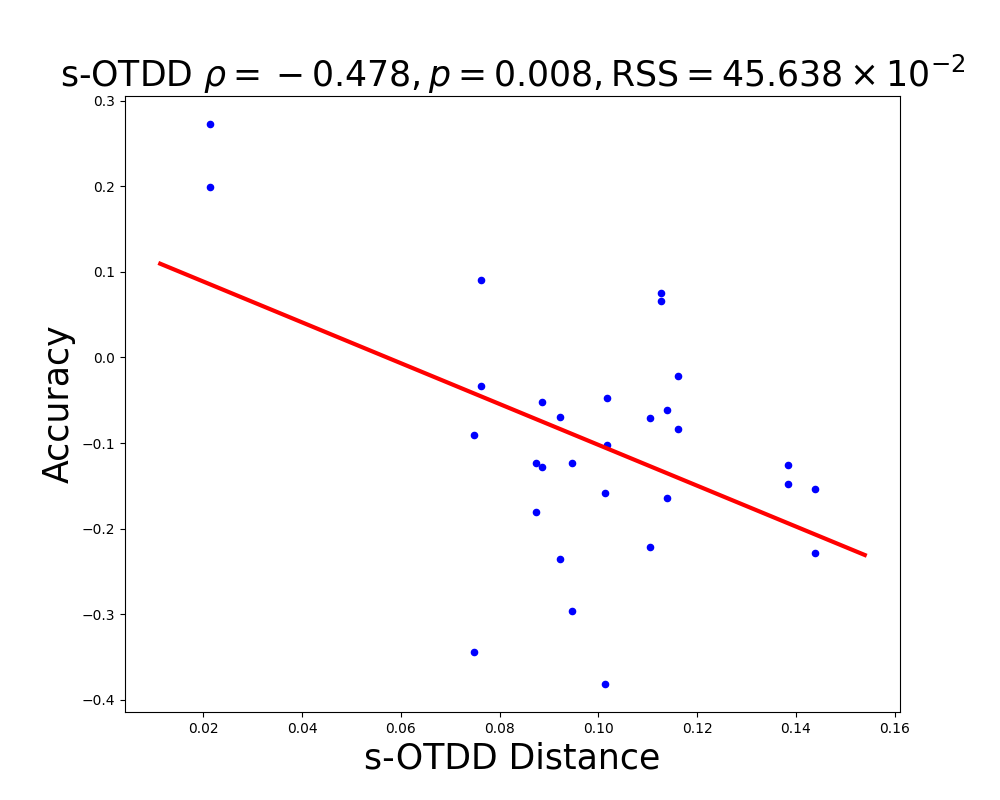
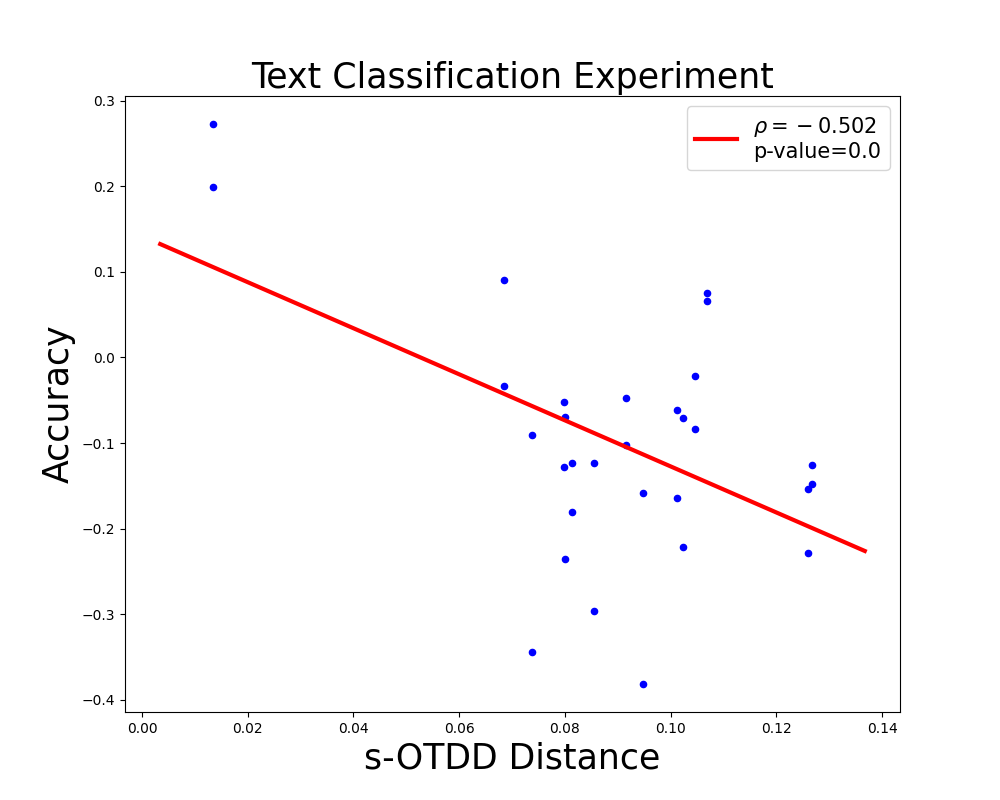
h

diff --git a/text_eval.py b/text_eval.py
@@ -9,7 +9,7 @@ from sklearn.linear_model import LinearRegression
 from scipy import stats
 
 
-method = "OTDD"
+method = "sOTDD"
 if method == "sOTDD":
     display_method = "s-OTDD"
 else:
@@ -20,7 +20,8 @@ parent_dir = "saved/text_cls_new"
 baseline_result_path = f"{parent_dir}/baseline_new/accuracy.txt"
 adapt_result_path = f"{parent_dir}/adapt_weights/adapt_result.txt"
 # text_dist_path = f"{parent_dir}/dist/{method}_text_dist.json"
-text_dist_path = "saved_text_dist/text_cls/dist/OTDD_20_text_dist.json"
+# text_dist_path = "saved_text_dist/text_cls/dist/OTDD_20_text_dist.json"
+text_dist_path = "saved_text_dist/text_cls/dist/sOTDD_text_dist.json"
 
 # read text distance
 with open(text_dist_path, "r") as file:
@@ -93,26 +94,30 @@ x_extended = np.linspace(x_min, x_max, 100).reshape(-1, 1)
 # Predict y values for the extended range
 y_extended_pred = model.predict(x_extended)
 
-plt.figure(figsize=(10, 8))
-
-plt.scatter(dist_list, perf_list, s=20, color='blue')
-plt.plot(x_extended, y_extended_pred, color='red', linewidth=3)
-
 def compute_rss(observed, predicted):
     if len(observed) != len(predicted):
         raise ValueError("Both lists must have the same length.")
     rss = sum((obs - pred) ** 2 for obs, pred in zip(observed, predicted))
     return rss
-
 rss = compute_rss(list_y, list_y_pred) * 100
 rho, p_value = stats.pearsonr(dist_list, perf_list)
 
 
+
+plt.figure(figsize=(10, 8))
+
+plt.scatter(dist_list, perf_list, s=20, color='blue')
+plt.plot(x_extended, y_extended_pred, color='red', linewidth=3,
+         label=(f'$ \\rho={rho:.3f}$\n'
+                f'p-value={p_value:.1f}'
+                ))
+
 FONT_SIZE = 25
-plt.title(f'{display_method} $\\rho={rho:.3f}, p={p_value:.3f}, \\mathrm{{RSS}}={rss:.3f} \\times 10^{{-2}}$', fontsize=FONT_SIZE)
+plt.title("Text Classification Experiment", fontsize=FONT_SIZE)
 plt.xlabel(f'{display_method} Distance', fontsize=FONT_SIZE)
 plt.ylabel('Accuracy', fontsize=FONT_SIZE)
 
-# plt.legend()
+plt.legend(fontsize=15)
 plt.savefig(f'text_cls_{display_method}.png')
+
 

diff --git a/text_dist.py b/text_dist.py
@@ -16,7 +16,7 @@ import argparse
 DEVICE = torch.device("cuda" if torch.cuda.is_available() else "cpu")
 print(f"Use CUDA or not: {DEVICE}")
 
-NUM_EXAMPLES = 1000
+NUM_EXAMPLES = 2000
 
 # ["AG_NEWS", "DBpedia", "YelpReviewPolarity", "YelpReviewFull", "YahooAnswers", "AmazonReviewPolarity", "AmazonReviewFull"]
 DATASET_NAMES = ["AG_NEWS", "DBpedia", "YelpReviewPolarity", "YelpReviewFull", "YahooAnswers", "AmazonReviewPolarity", "AmazonReviewFull"]
